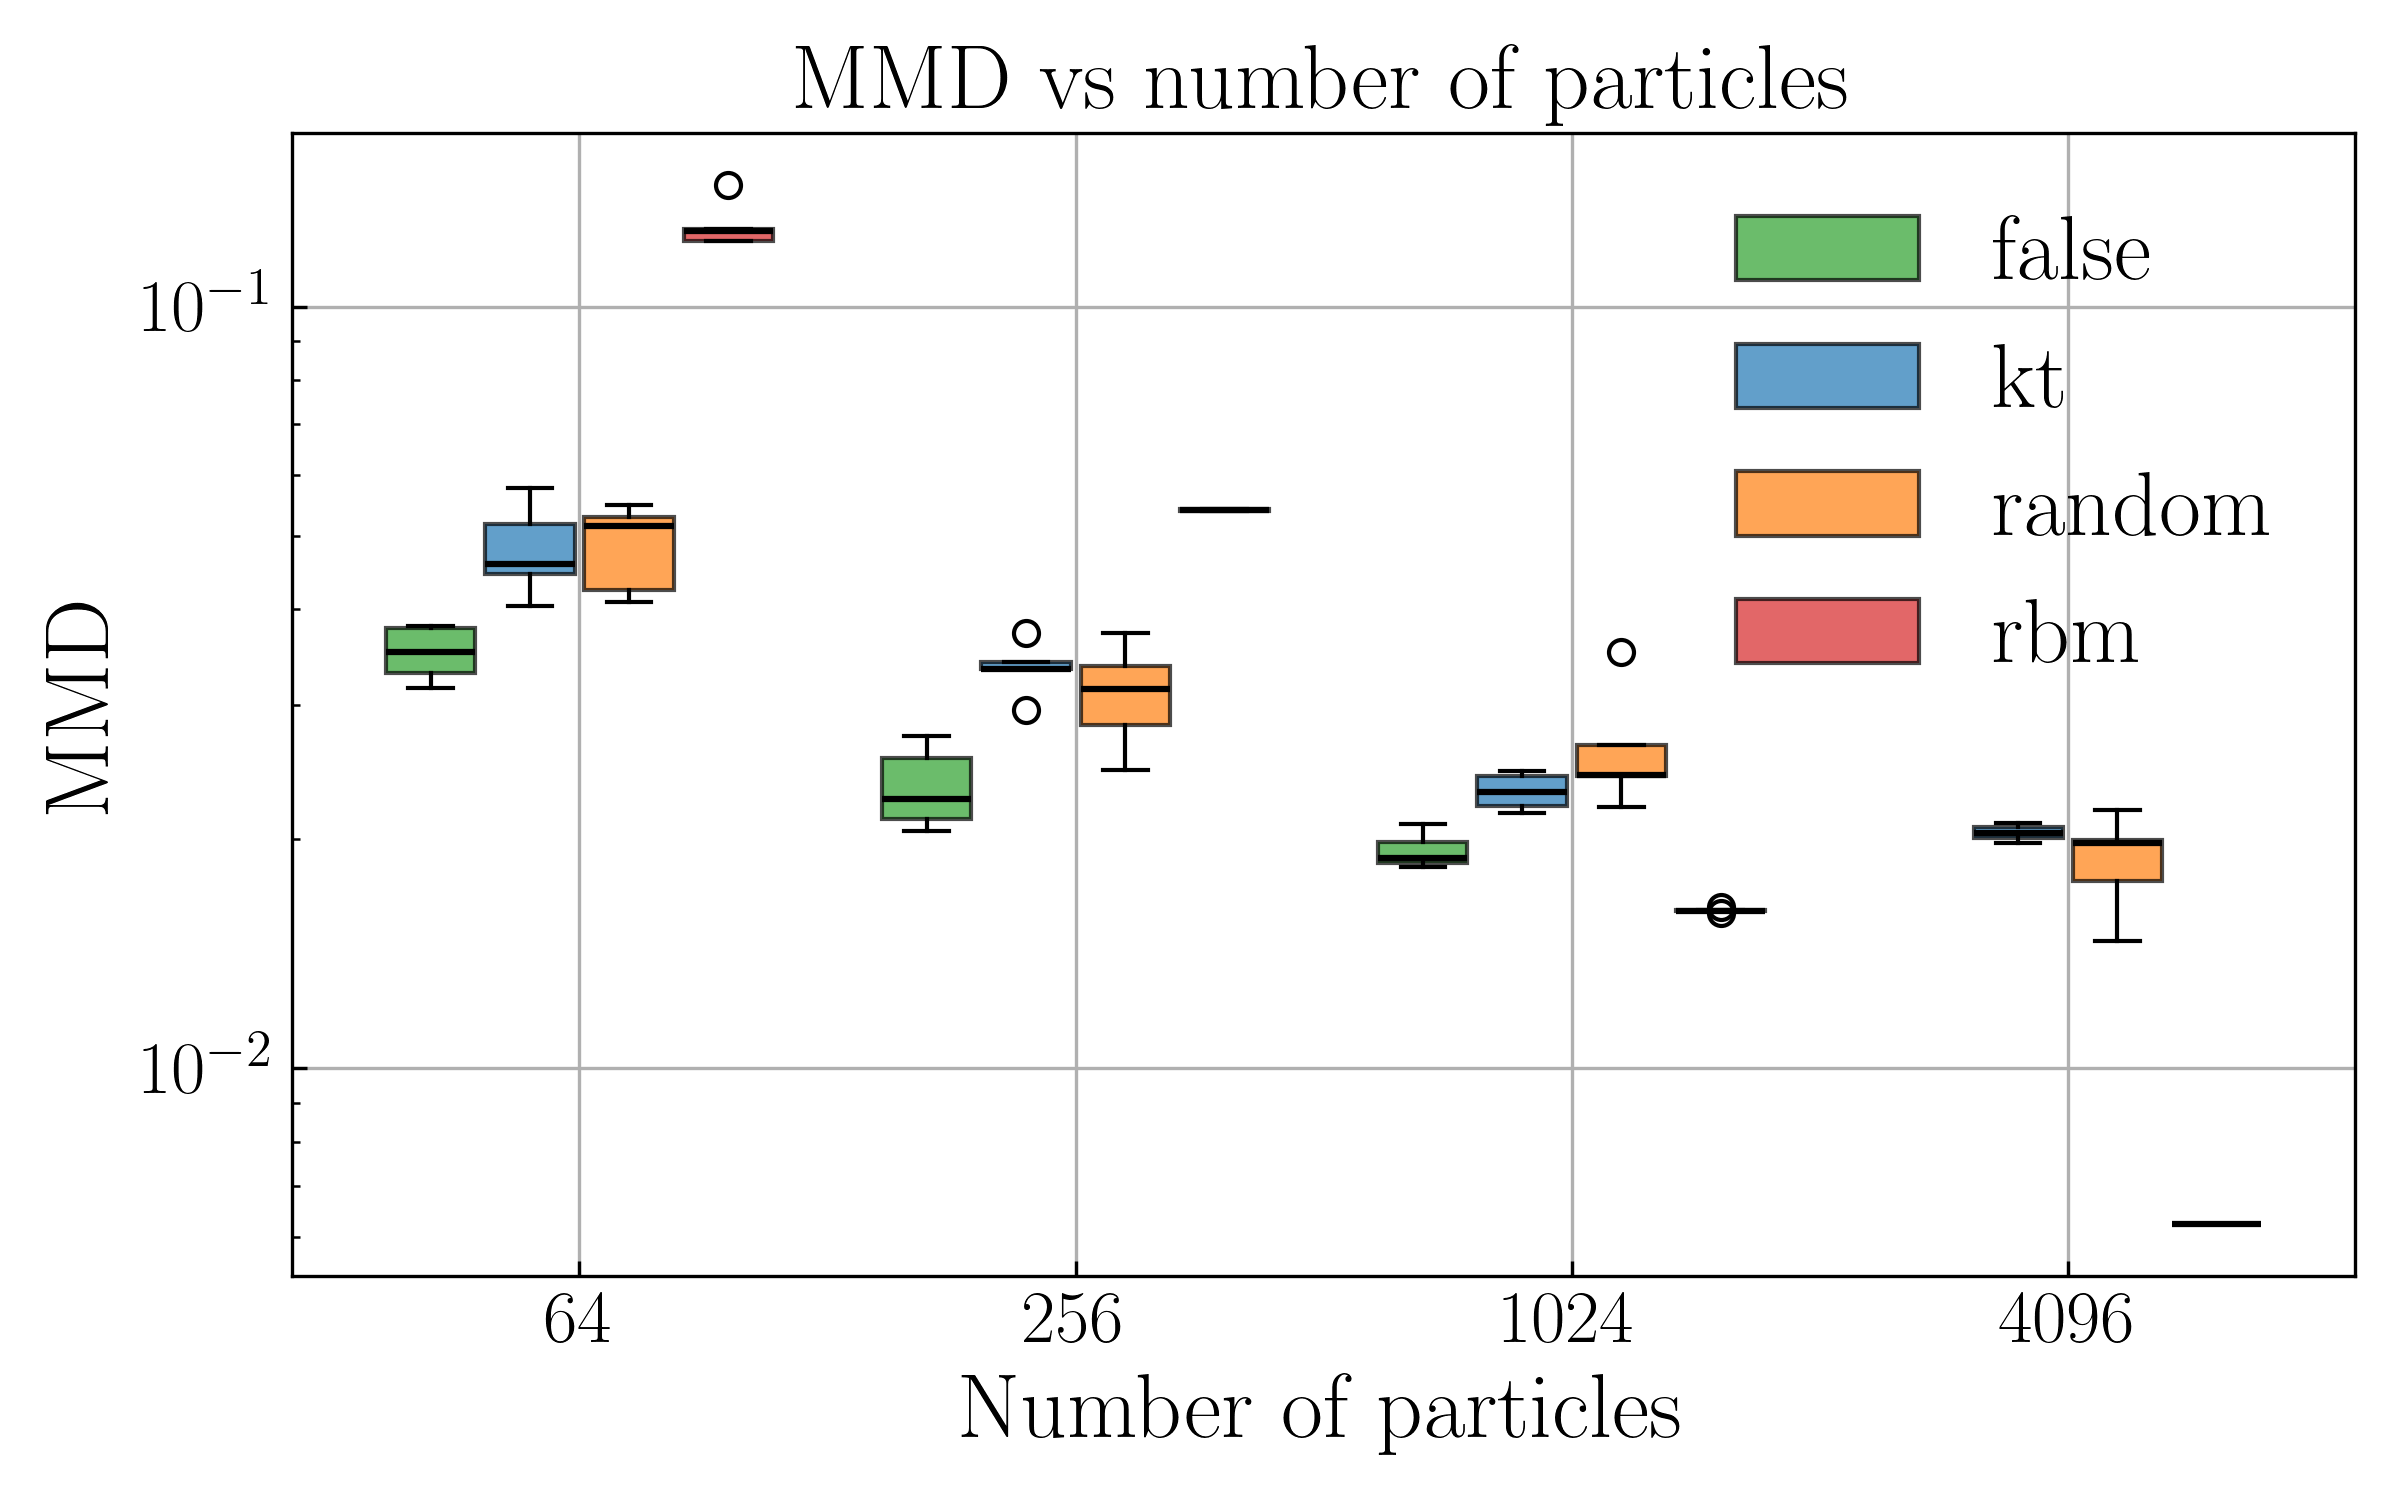
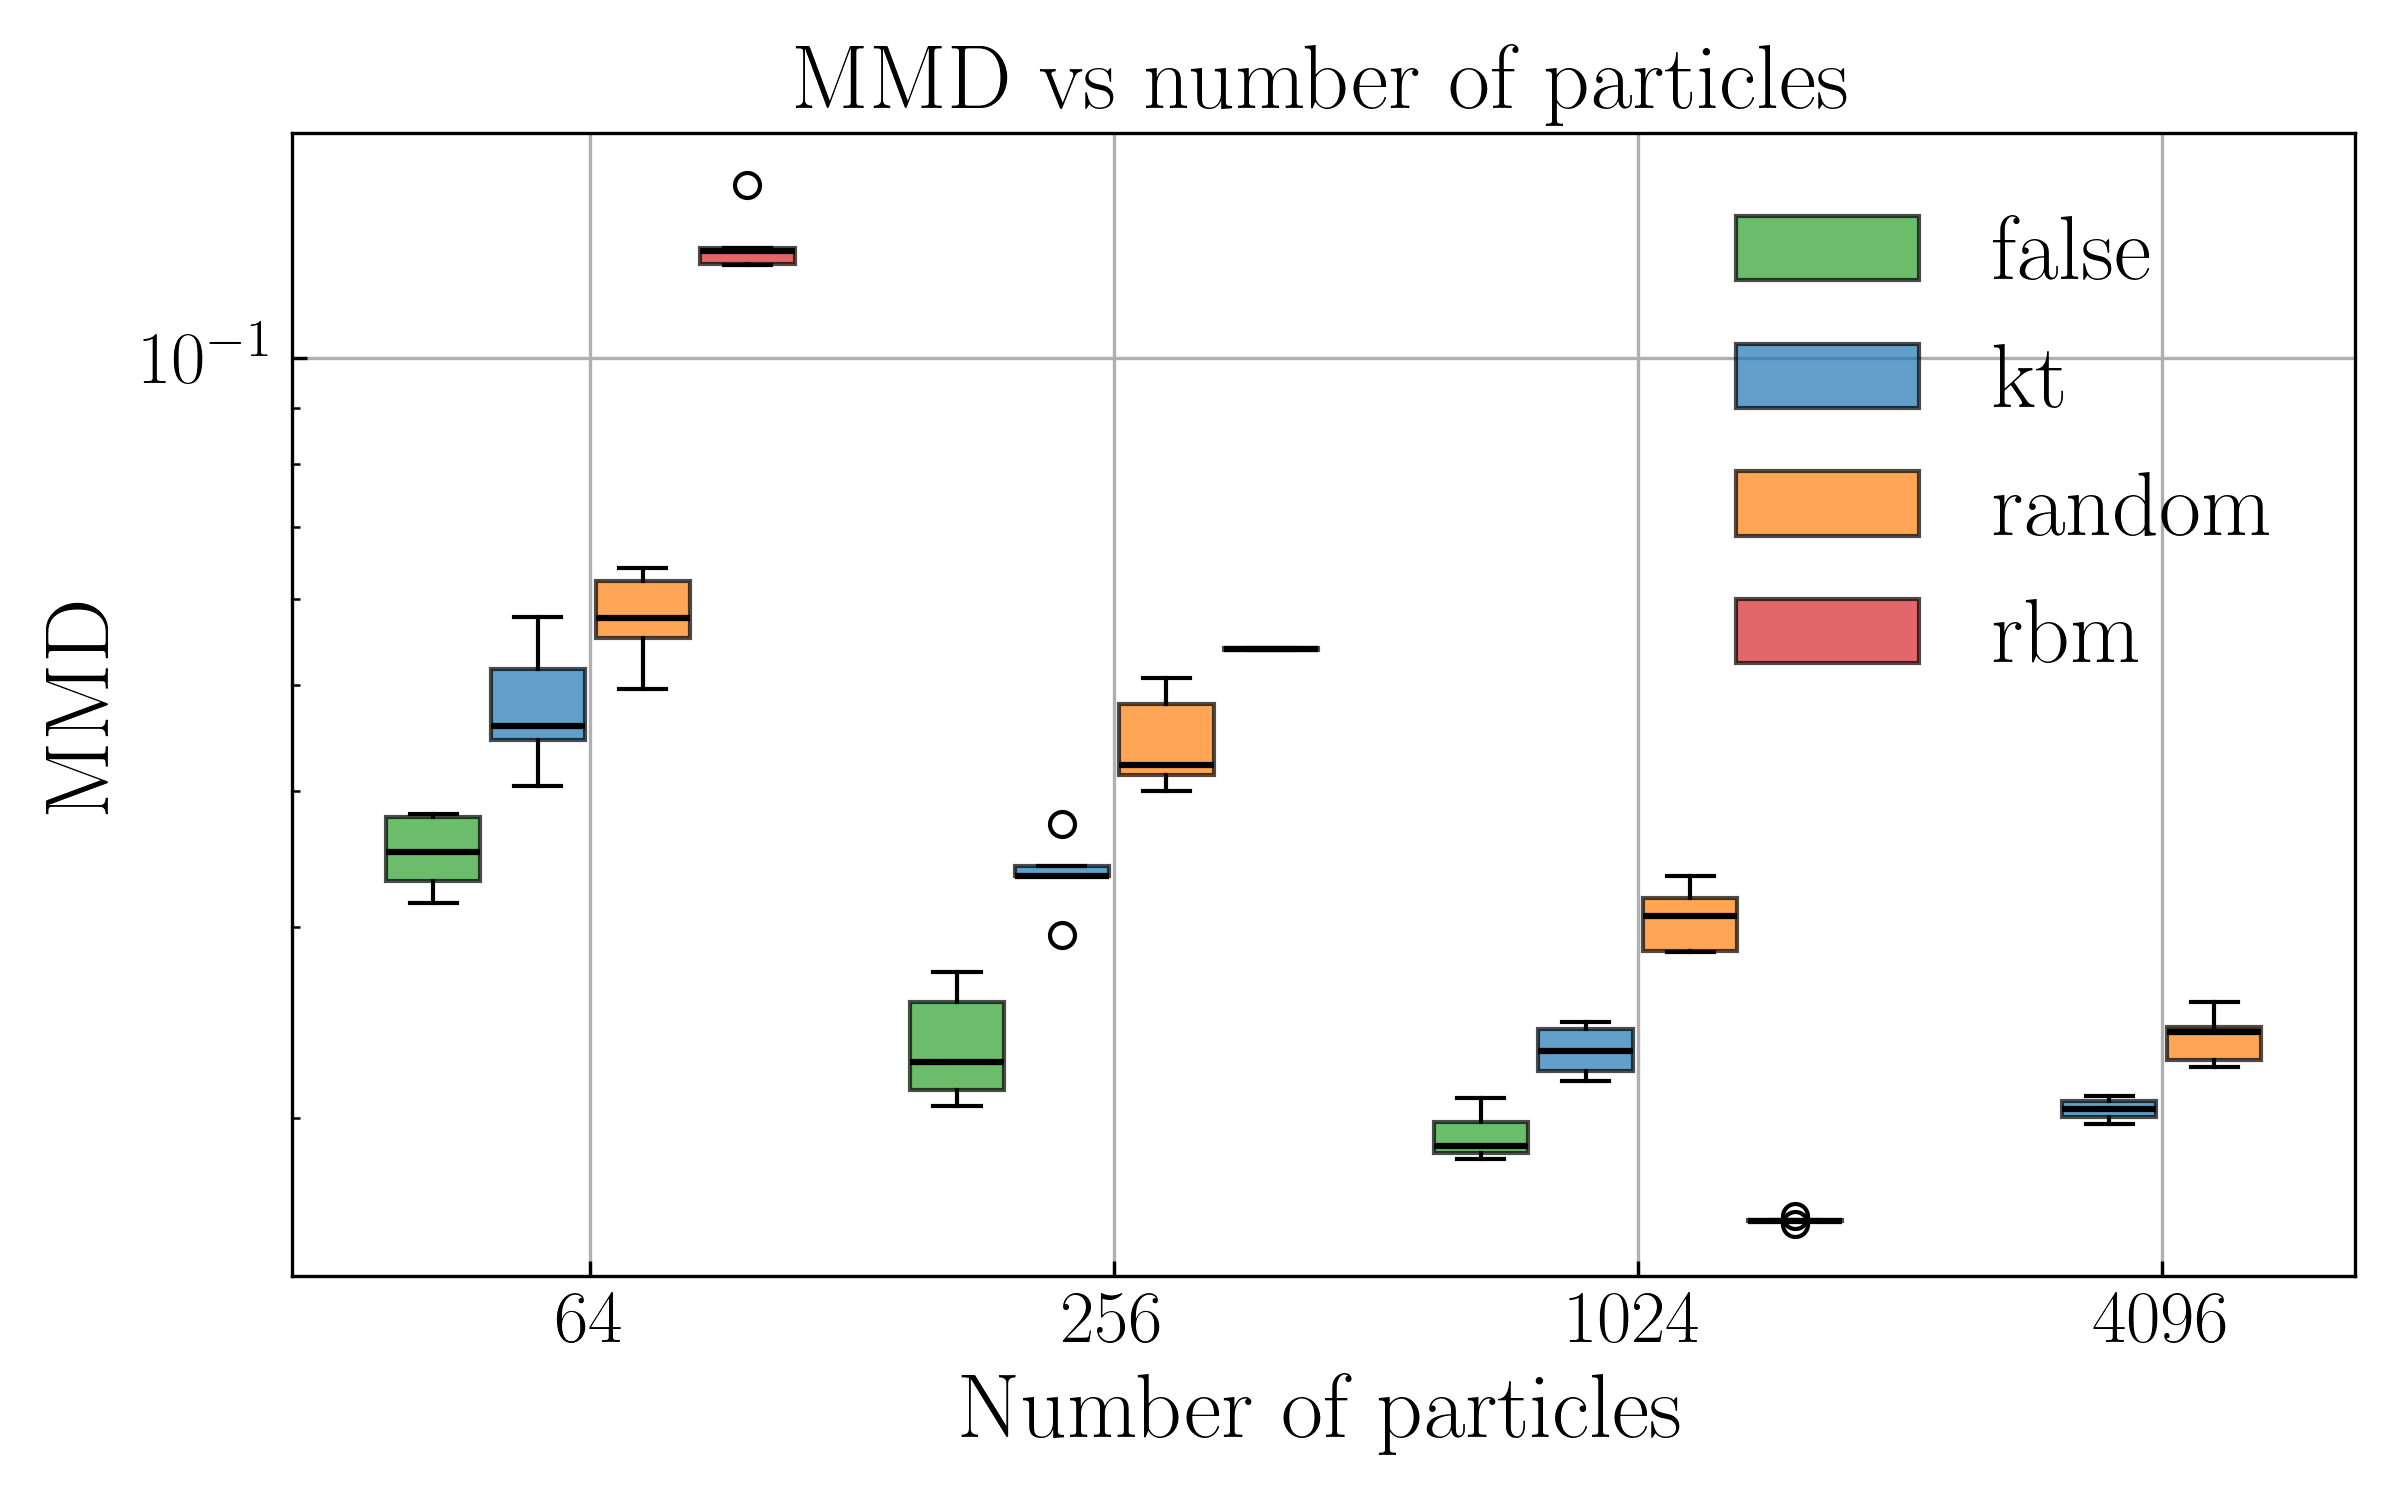
minor

diff --git a/mfld.py b/mfld.py
@@ -235,6 +235,7 @@ class MFLD_vlm(MFLDBase):
             x_next = x - self.cfg.step_size * v + noise
         elif self.args.thinning == 'rbm':
             # Random batch method 
+            thinned_x = self.thin_fn(x, key)
             N, d = x.shape
             B = jnp.sqrt(N).astype(int)
             x_batch = x.reshape((B, B, d))  # (num_batches=B, batch_size=B, d)
@@ -248,7 +249,7 @@ class MFLD_vlm(MFLDBase):
             v_batch = jax.vmap(vf_one_batch, in_axes=(0, 0))(x_batch, keys)  # (B, B, d)
             v = v_batch.reshape((N, d))
             x_next = x - self.cfg.step_size * v
-        return (x_next, key), x_next
+        return (x_next, key), thinned_x
     
     def simulate(self, x0: Optional[Array] = None) -> Array:
         key = random.PRNGKey(self.cfg.seed)
@@ -264,12 +265,11 @@ class MFLD_vlm(MFLDBase):
         for t in tqdm(range(self.cfg.steps)):
             time_start = time.time()
             key_, subkey = random.split(key)
-            (x, key) , _ = self._step((x, subkey), t)
+            (x, key) , thinned_x = self._step((x, subkey), t)
             time_elapsed = time.time() - time_start
 
             ###########################################
             # Debug code compare MMD between x and thinned_x 
-            thinned_x = self.thin_fn(x, key_)
             mmd2 = compute_mmd2(x, thinned_x, bandwidth=self.cfg.bandwidth)
 
             # thinned_output = self._vm_grad_q2(x, thinned_x)
@@ -325,6 +325,7 @@ class MFLD_mmd_flow(MFLDBase):
             x_next = x - self.cfg.step_size * v + noise
         elif self.args.thinning == 'rbm':
             # Random batch method 
+            thinned_x = self.thin_fn(x, key)
             N, d = x.shape
             B = jnp.sqrt(N).astype(int)
             x_batch = x.reshape((B, B, d))  # (num_batches=B, batch_size=B, d)
